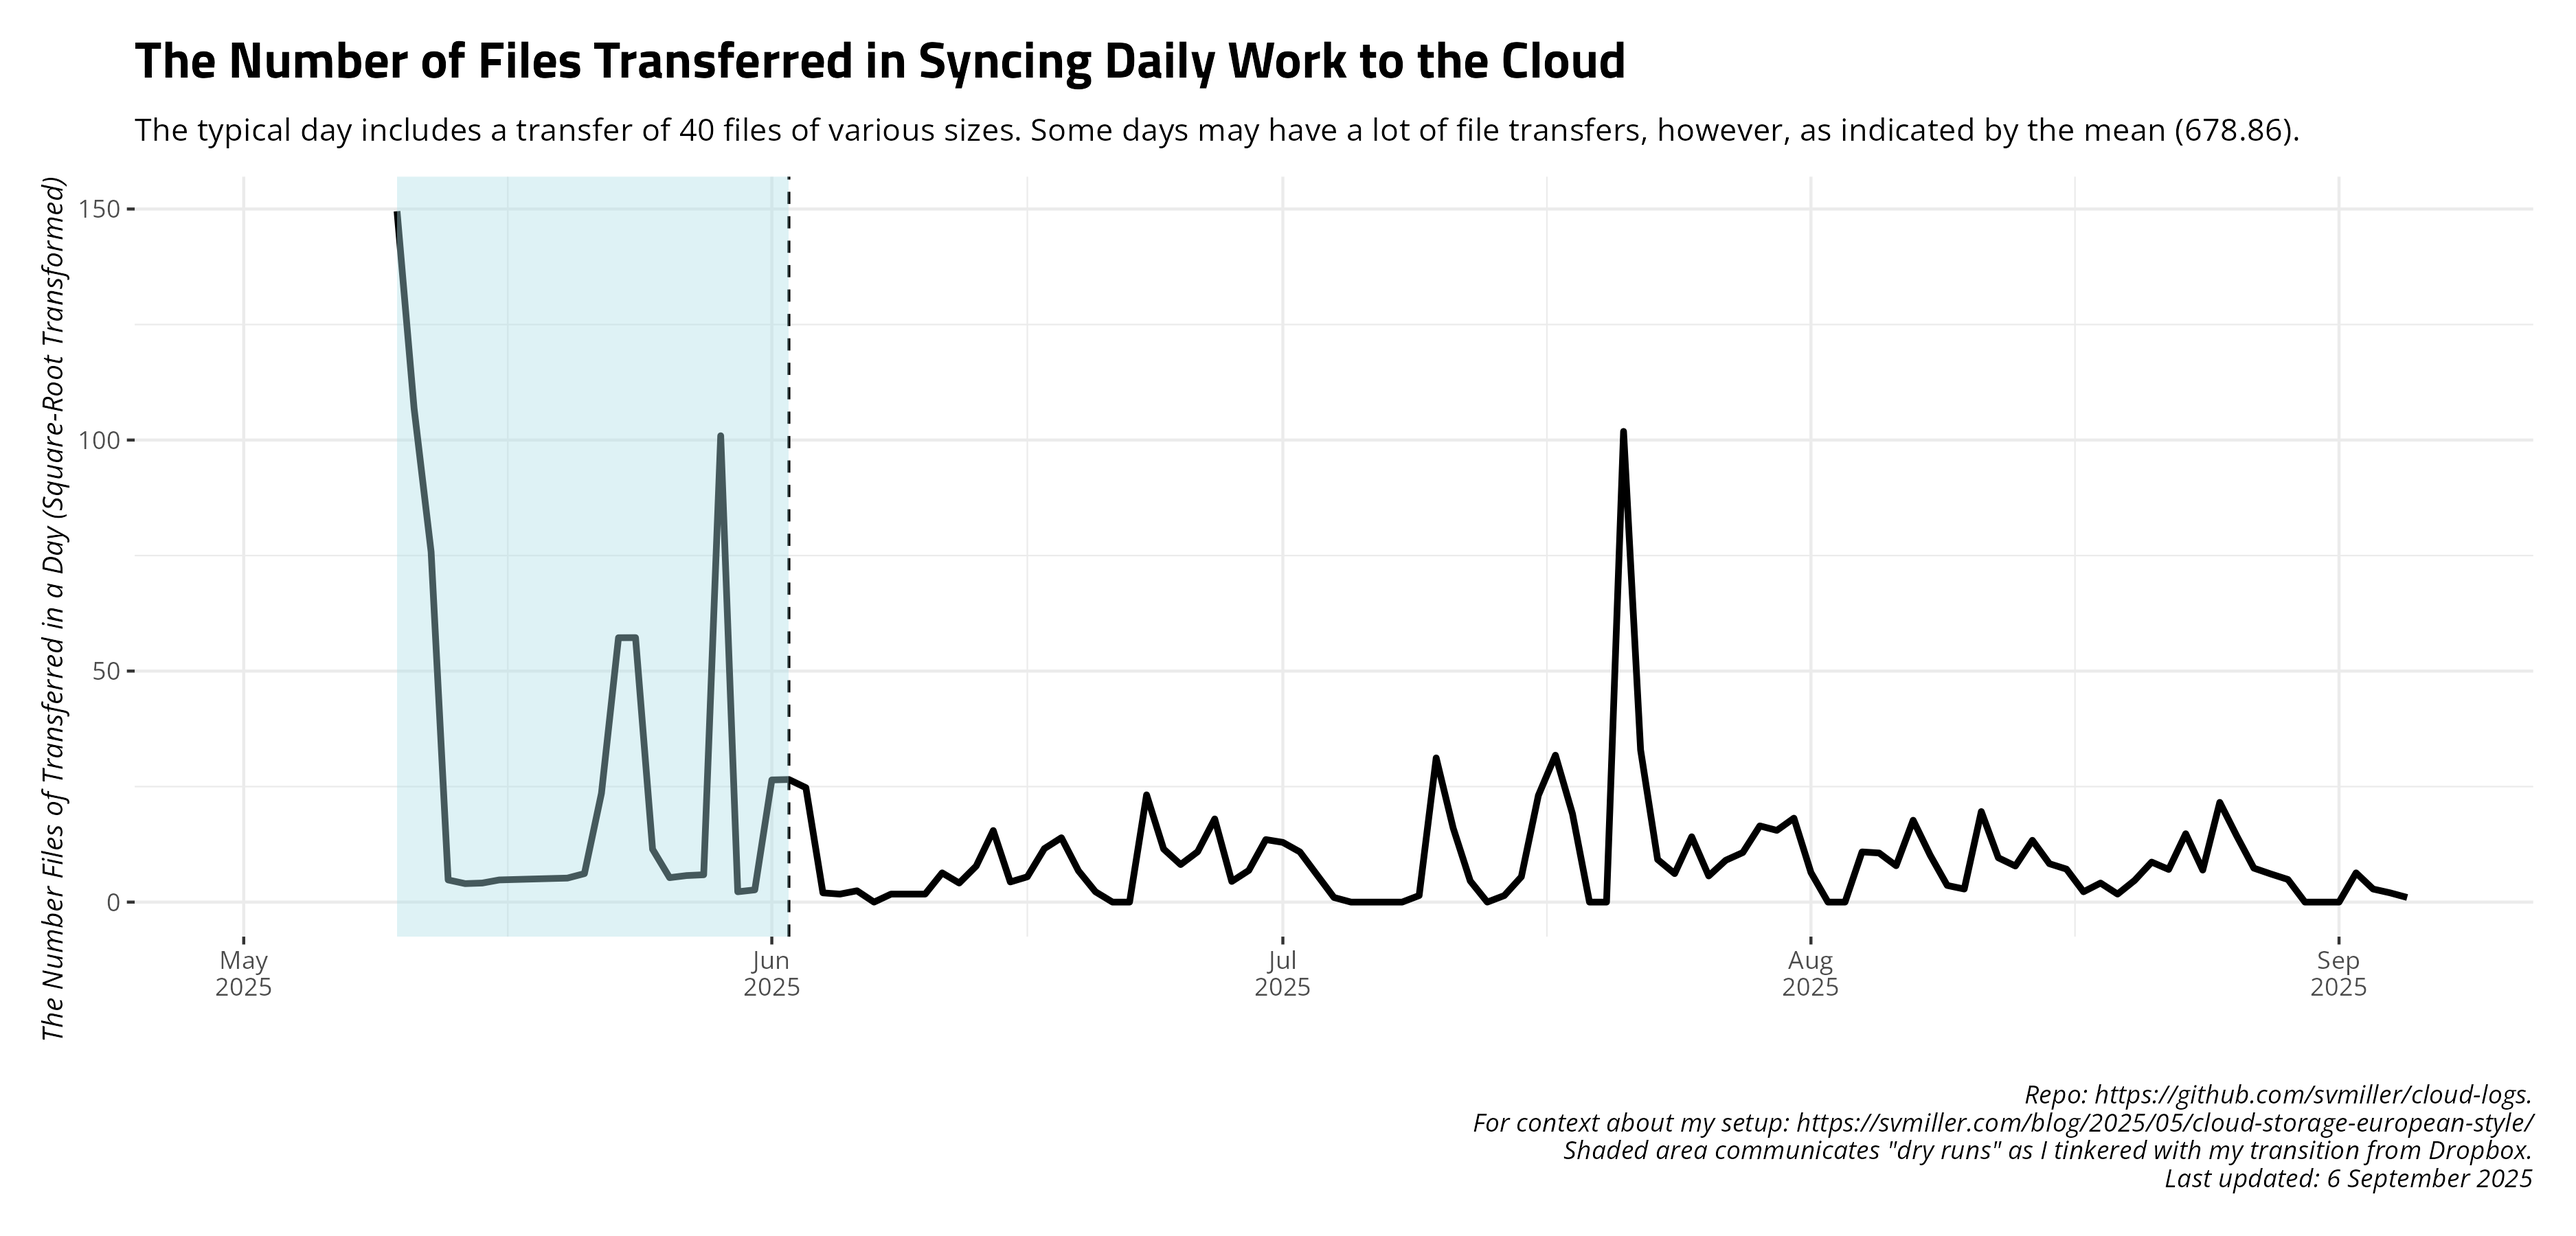
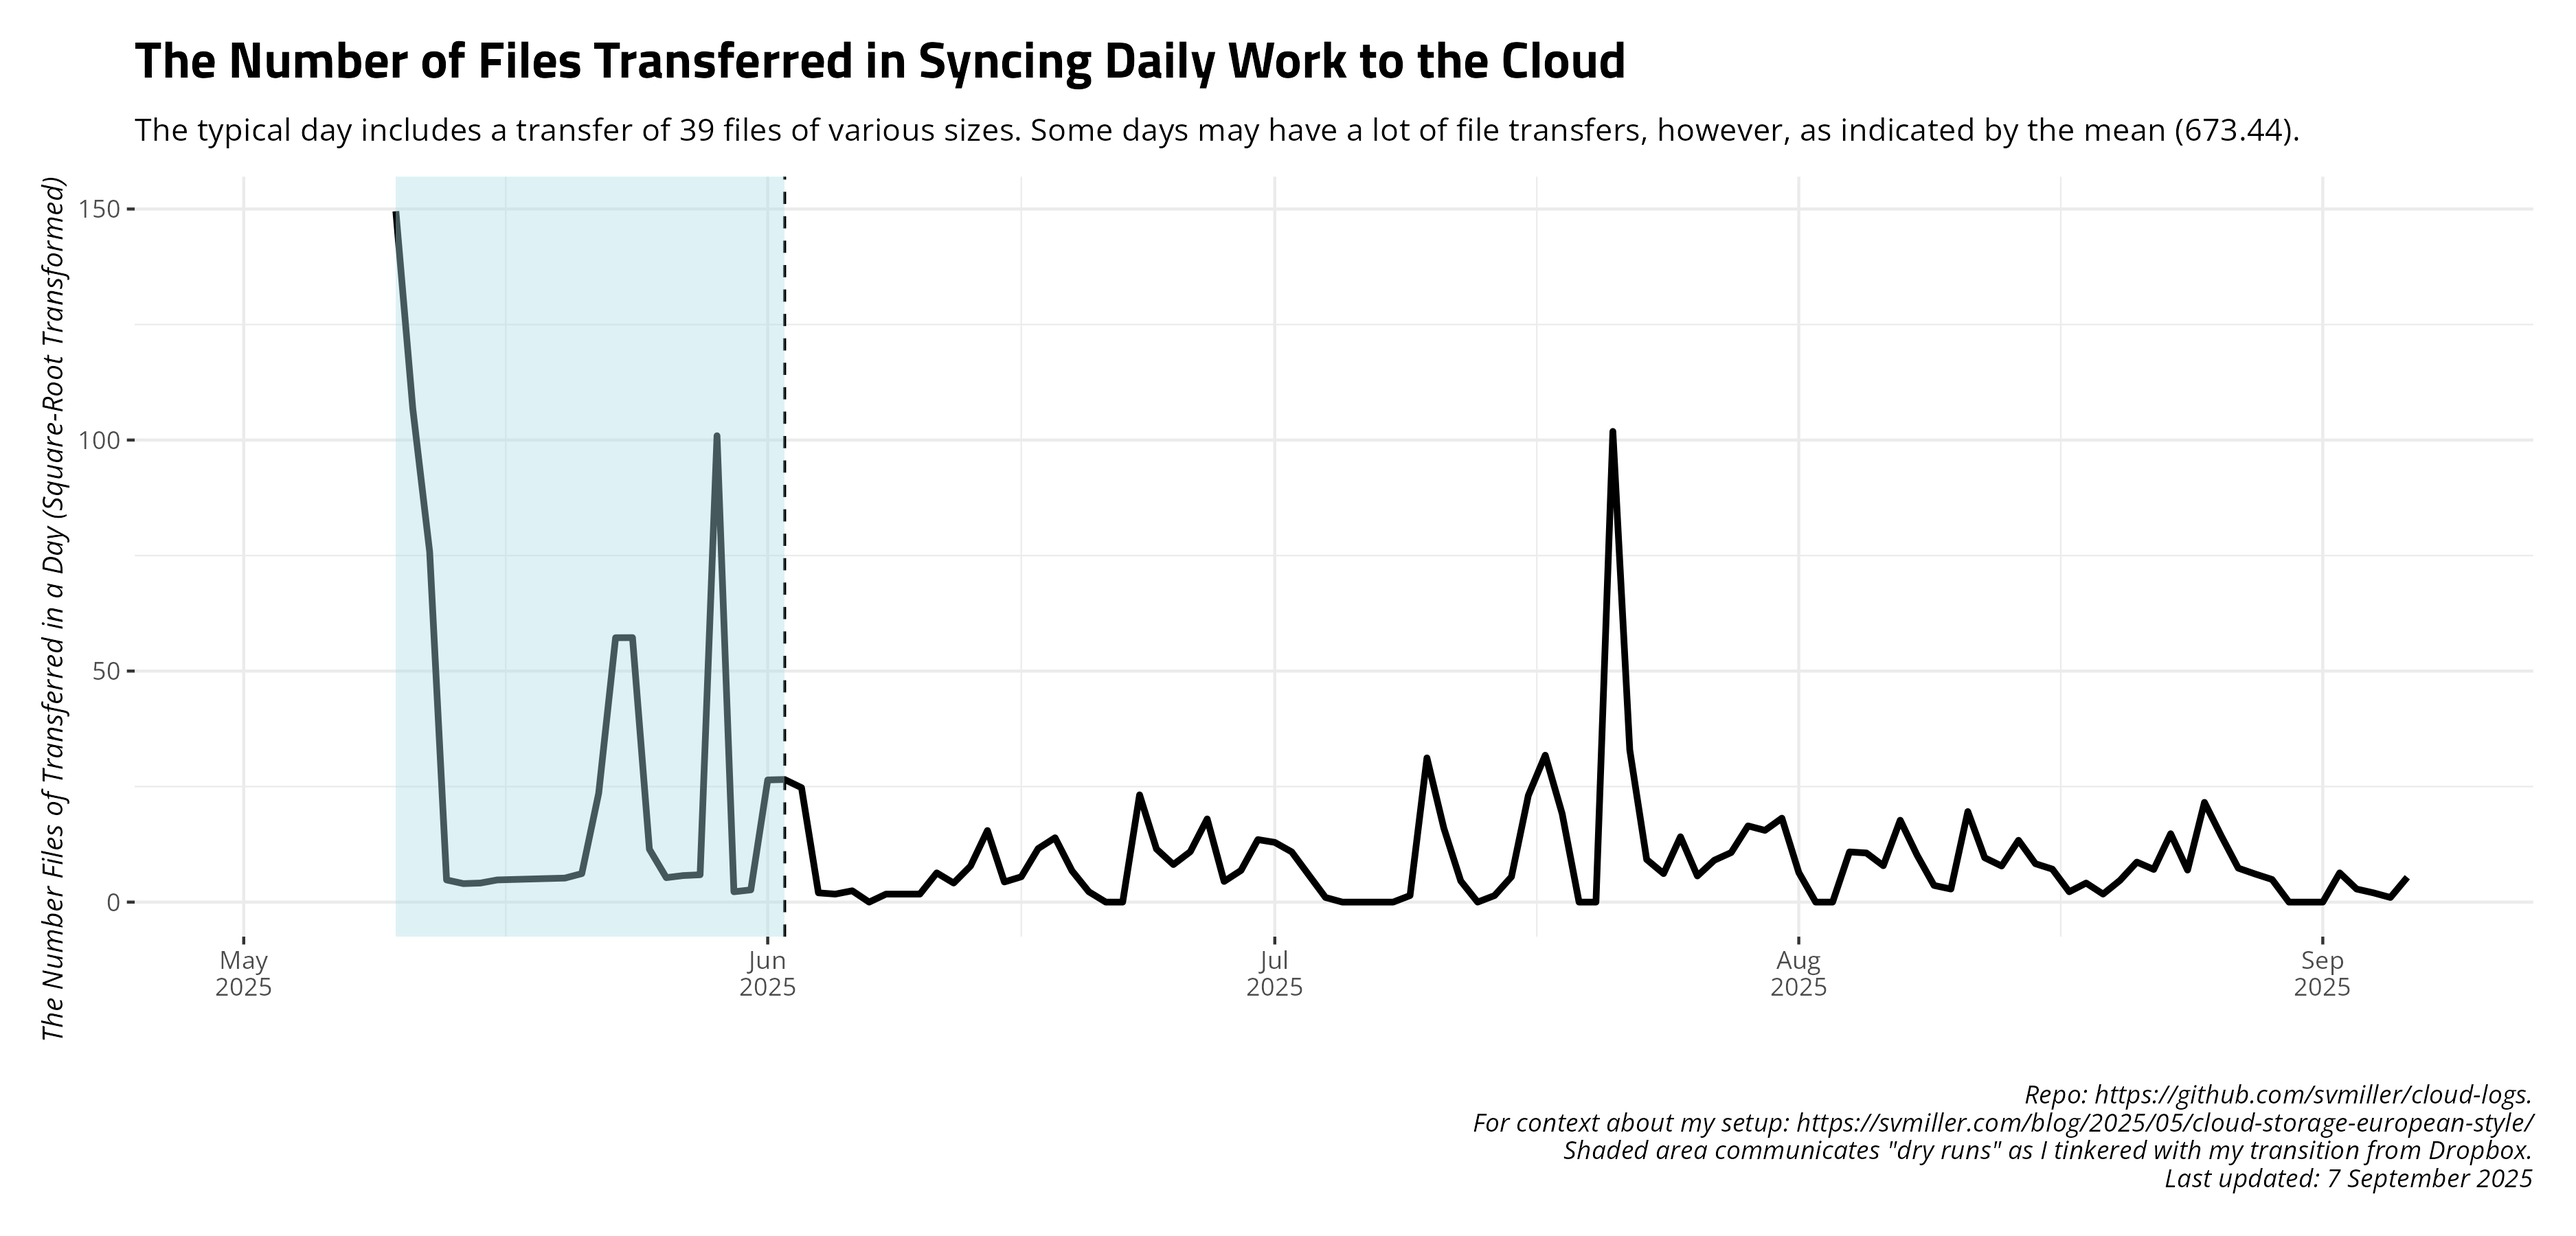
Date: 2025-09-07 09:00:13. Hi mom!

diff --git a/README.md b/README.md
@@ -27,17 +27,17 @@ and uploads to Github.
     #> # A tibble: 14 × 4
     #>    date       ftransfer stransfer   elapsed
     #>    <date>         <dbl> <chr>       <chr>  
-    #>  1 2025-08-23       219 7.608 MiB   5m0.8s 
-    #>  2 2025-08-24        48 21.815 MiB  5m55.0s
-    #>  3 2025-08-25       466 14.057 MiB  4m15.5s
-    #>  4 2025-08-26       204 33.605 MiB  7m26.6s
-    #>  5 2025-08-27        54 224.264 KiB 4m15.3s
-    #>  6 2025-08-28        37 151.144 KiB 3m59.5s
-    #>  7 2025-08-29        24 103.784 KiB 4m55.0s
-    #>  8 2025-08-30         0 <NA>        5m16.9s
-    #>  9 2025-08-31         0 <NA>        5m16.9s
-    #> 10 2025-09-01         0 <NA>        5m21.1s
-    #> 11 2025-09-02        40 153.396 KiB 13m1.5s
-    #> 12 2025-09-03         8 196.474 KiB 5m6.5s 
-    #> 13 2025-09-04         4 16.646 KiB  4m55.1s
-    #> 14 2025-09-05         1 14.804 MiB  5m22.4s
+    #>  1 2025-08-24        48 21.815 MiB  5m55.0s
+    #>  2 2025-08-25       466 14.057 MiB  4m15.5s
+    #>  3 2025-08-26       204 33.605 MiB  7m26.6s
+    #>  4 2025-08-27        54 224.264 KiB 4m15.3s
+    #>  5 2025-08-28        37 151.144 KiB 3m59.5s
+    #>  6 2025-08-29        24 103.784 KiB 4m55.0s
+    #>  7 2025-08-30         0 <NA>        5m16.9s
+    #>  8 2025-08-31         0 <NA>        5m16.9s
+    #>  9 2025-09-01         0 <NA>        5m21.1s
+    #> 10 2025-09-02        40 153.396 KiB 13m1.5s
+    #> 11 2025-09-03         8 196.474 KiB 5m6.5s 
+    #> 12 2025-09-04         4 16.646 KiB  4m55.1s
+    #> 13 2025-09-05         1 14.804 MiB  5m22.4s
+    #> 14 2025-09-06        29 118.159 KiB 4m51.7s
